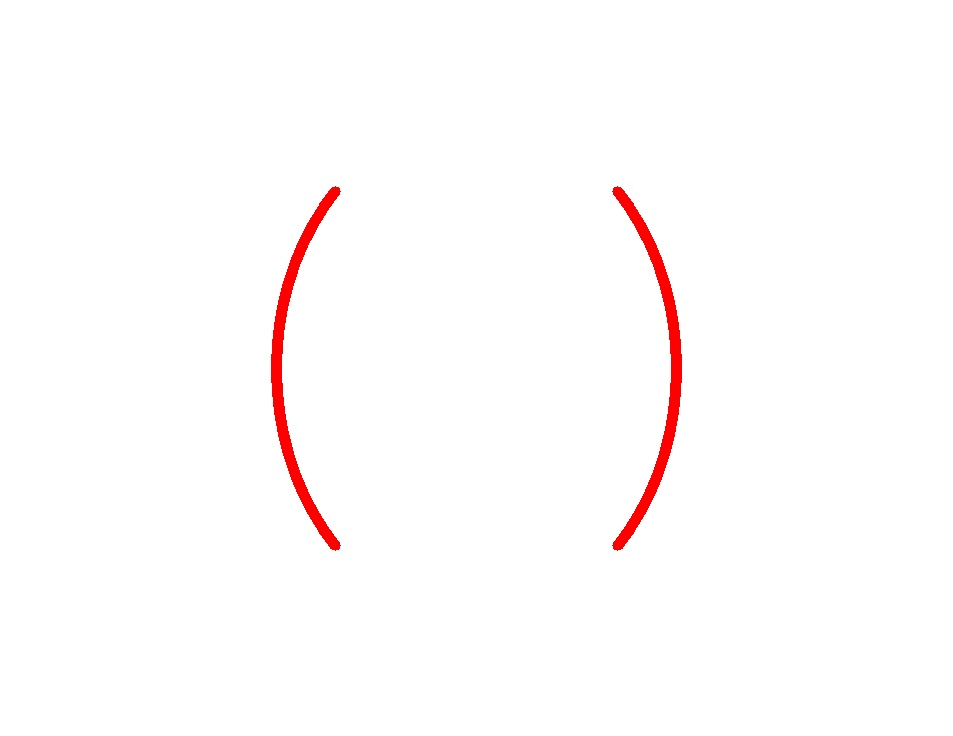
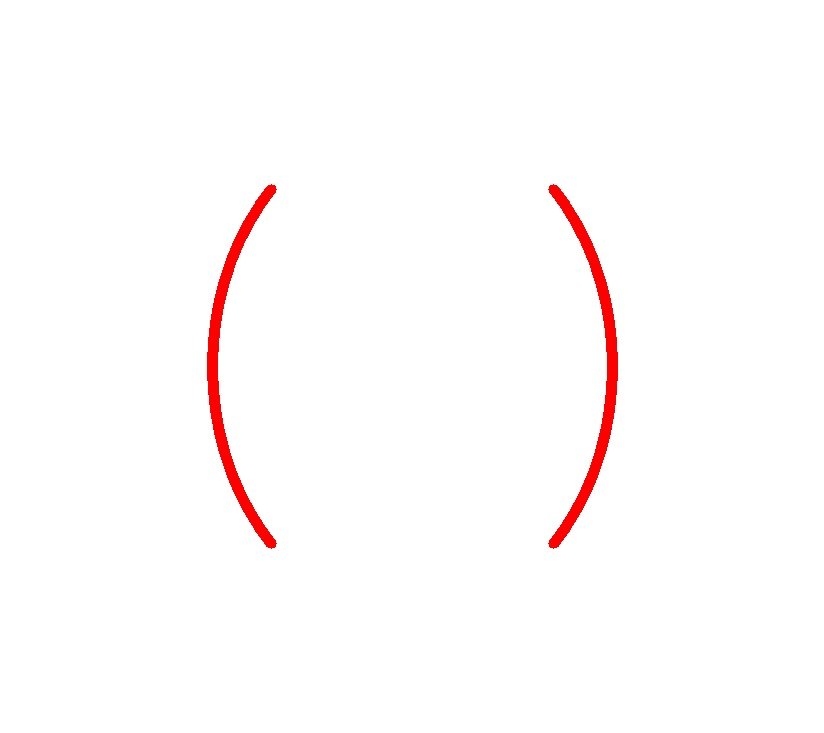
update
adds images used in final presentation, makes code easily changeable in
thershold minimum

Changed region(s): [[0.6371, 0.2401, 0.7585, 0.7503], [0.2427, 0.2401, 0.3641, 0.7503]]

diff --git a/pendantDrop.py b/pendantDrop.py
@@ -18,13 +18,12 @@ c1, c2 = w/2, h/2
 # block out any reflections in the droplet
 cv2.circle(img, (c1, c2), w/6, BLACK, thickness=-1)
 
-
+threshold_low  = 20
+threshold_high = 225
 # pull out edges of the entire droplet
-ret,dropletFull = cv2.threshold(img,20,225,cv2.THRESH_BINARY)
+ret,dropletFull = cv2.threshold(img,threshold_low,threshold_high,cv2.THRESH_BINARY)
 fullEdges = cv2.Canny(dropletFull, 30, 80)
 dropletFull[fullEdges != 0] = (0, 255, 0)
-#plt.imshow(dropletFull)
-
 
 
 # Pull out just the bottom of the droplet in order to find the radius of curvature
@@ -32,13 +31,9 @@ r1 = 300
 x1, x2 = c1-r1, c1+r1
 y1, y2 = c2, c2+r1
 dropletBottom = img[y1:y2, x1:x2]       
-ret,dropletBottom = cv2.threshold(dropletBottom,20,225,cv2.THRESH_BINARY)
+ret,dropletBottom = cv2.threshold(dropletBottom,threshold_low,threshold_high,cv2.THRESH_BINARY)
 edges = cv2.Canny(dropletBottom, 30, 80)
 dropletBottom[edges != 0] = (0, 255, 0)
-
-cv2.imwrite('output/droplet_filled.jpg', dropletBottom)
-cv2.imwrite('output/droplet_edges.jpg',edges)
-# save('output/edges',edges)
 # ========================================================
 
 
@@ -138,9 +133,6 @@ def plot_all():
     plt.plot(x, y, 'co', label='data', ms=8, mec='c', mew=1)
     plt.legend(loc='best',labelspacing=0.1 )
 
-    # plt.xlim(xmin=vmin, xmax=vmax)
-    # plt.ylim(ymin=vmin, ymax=vmax)
-
     plt.grid()
     plt.title('Least Squares Circle')
     plt.savefig('output/fit_%s.png' % (basename))
@@ -233,17 +225,21 @@ x_de_array = zeros(20) + max(x)-de/2.
 
 
 def pixels2m(value):
-    needleMM = 0.51
-    # needleMM = 1.85
+    # water
+    # needleMM = 0.51
+    
+    # hexadecane
+    needleMM = 1.95
     mPerPixel = needleMM/needleWidth*1./1000.
     return value*mPerPixel
 
-
+dsPx = ds
+dePx = de
+needleWidthPx = needleWidth
 ds = pixels2m(ds)
 de = pixels2m(de) 
+needleWidth = pixels2m(needleWidth)
 
-# Summary
-print "Droplet diameter = "+str(round(ds*1000,2))+" mm"
 
 
 # ======== Get surface tension from diameters
@@ -254,11 +250,13 @@ def H_func(s):
     H = 1/OneOverH
     return H
 def gamma_func(H,de):
-    rhoAir = 1.2754 #kg/m3
-    rhoWater = 999.97 #kg/m3
-    deltaRho = rhoAir - rhoWater
+    # water
+    # rhoAir = 1.2754 #kg/m3
+    # rhoWater = 999.97 #kg/m3
+    # deltaRho = rhoAir - rhoWater
+    
     # hexadecane:
-    # deltaRho = 768.761 # kg/m3
+    deltaRho = -768.761 # kg/m3
     g        = 9.8 
     gamma = -deltaRho*g*de**2/H     # N/m
     gamma_mN = gamma * 1000         # mN/m
@@ -268,10 +266,11 @@ def gamma_func(H,de):
 H = H_func(s)
 gamma = gamma_func(H, de)
 
-print "Surface tension: " +str(gamma) + "mN/m"
+# Summary
 
-
-
+from tabulate import tabulate
+table = [[round(dsPx), round(ds*1000,2), round(dePx), round(de*1000,2), round(needleWidthPx), round(needleWidth*1000,2), gamma]]
+print tabulate(table, headers=['ds (px)', 'ds (mm)', 'de (px)', 'de (mm)', 'needle (px)', 'needle (m)', "Surface tension (mN/m)"])
 
 
 plt.figure(2)
@@ -288,15 +287,15 @@ plt.scatter(x,y,
 plt.plot(x_de_array,y_de_array,
          label='Droplet diameter',
          color='r',
-         linewidth=4)
+         linewidth=2)
 plt.plot(x_ds_array,y_ds_array,
          label='Throat diameter',
          color='b',
-         linewidth=4)
+         linewidth=2)
 plt.plot(x_needle,y_needle,
          label='Needle width',
          color='g',
-         linewidth=4)
+         linewidth=2)
 plt.legend(loc='best')
 plt.savefig('output/droplet_w_diameters.png')
 plt.show()

diff --git a/pendantDrop_justImages.py b/pendantDrop_justImages.py
@@ -1,0 +1,67 @@
+import cv2
+from numpy import *
+from matplotlib     import pyplot as plt, cm, colors
+from scipy      	import optimize
+import sys
+
+BLACK = (0, 0, 0)
+imageFile = sys.argv[1]
+img = cv2.imread(imageFile)
+
+# get height and width of droplet, then get centroid
+# if the image has been centered between the ritcle, the
+# centroid ought to be half the width and height
+h, w = img.shape[0:2]
+c1, c2 = w/2, h/2
+
+# draw a large black circle in the center of the image to
+# block out any reflections in the droplet
+cv2.circle(img, (c1, c2), w/6, BLACK, thickness=-1)
+cv2.imwrite('output/droplet_filled.jpg', img)
+
+threshold_low  = 20
+threshold_high = 225
+
+# pull out edges of the entire droplet
+ret,dropletFull = cv2.threshold(img,threshold_low,threshold_high,cv2.THRESH_BINARY)
+fullEdges = cv2.Canny(dropletFull, 30, 80)
+dropletFull[fullEdges != 0] = (0, 255, 0)
+cv2.imwrite('output/droplet_filled_threshold_'+str(threshold_low)+'.jpg', dropletFull)
+cv2.imwrite('output/droplet_filled_edges_'+str(threshold_low)+'.jpg', fullEdges)
+
+
+
+# Pull out just the bottom of the droplet in order to find the radius of curvature
+r1 = 300
+x1, x2 = c1-r1, c1+r1
+y1, y2 = c2, c2+r1
+dropletBottom = img[y1:y2, x1:x2]       
+ret,dropletBottom = cv2.threshold(dropletBottom,threshold_low,threshold_high,cv2.THRESH_BINARY)
+edges = cv2.Canny(dropletBottom, 30, 80)
+dropletBottom[edges != 0] = (0, 255, 0)
+
+cv2.imwrite('output/droplet_bottom_filled.jpg_'+str(threshold_low)+'.jpg', dropletBottom)
+cv2.imwrite('output/droplet_bottom_filled_edges_'+str(threshold_low)+'.jpg',edges)
+# save('output/edges',edges)
+# ========================================================
+
+
+
+
+
+
+
+
+
+
+
+
+
+
+
+
+
+
+
+
+

diff --git a/circle_brackets.py b/circle_brackets.py
@@ -39,7 +39,7 @@ draw_half_circle_rounded(image, -45, 45)
 cv2.imwrite('output/half_circle_droplet.jpg', image)
 
 
-height, width = 736, 953
+height, width = 733, 824
 image2 = create_blank(width, height, color=WHITE)
 draw_half_circle_rounded(image2, 135, 225)
 draw_half_circle_rounded(image2, -45, 45)
